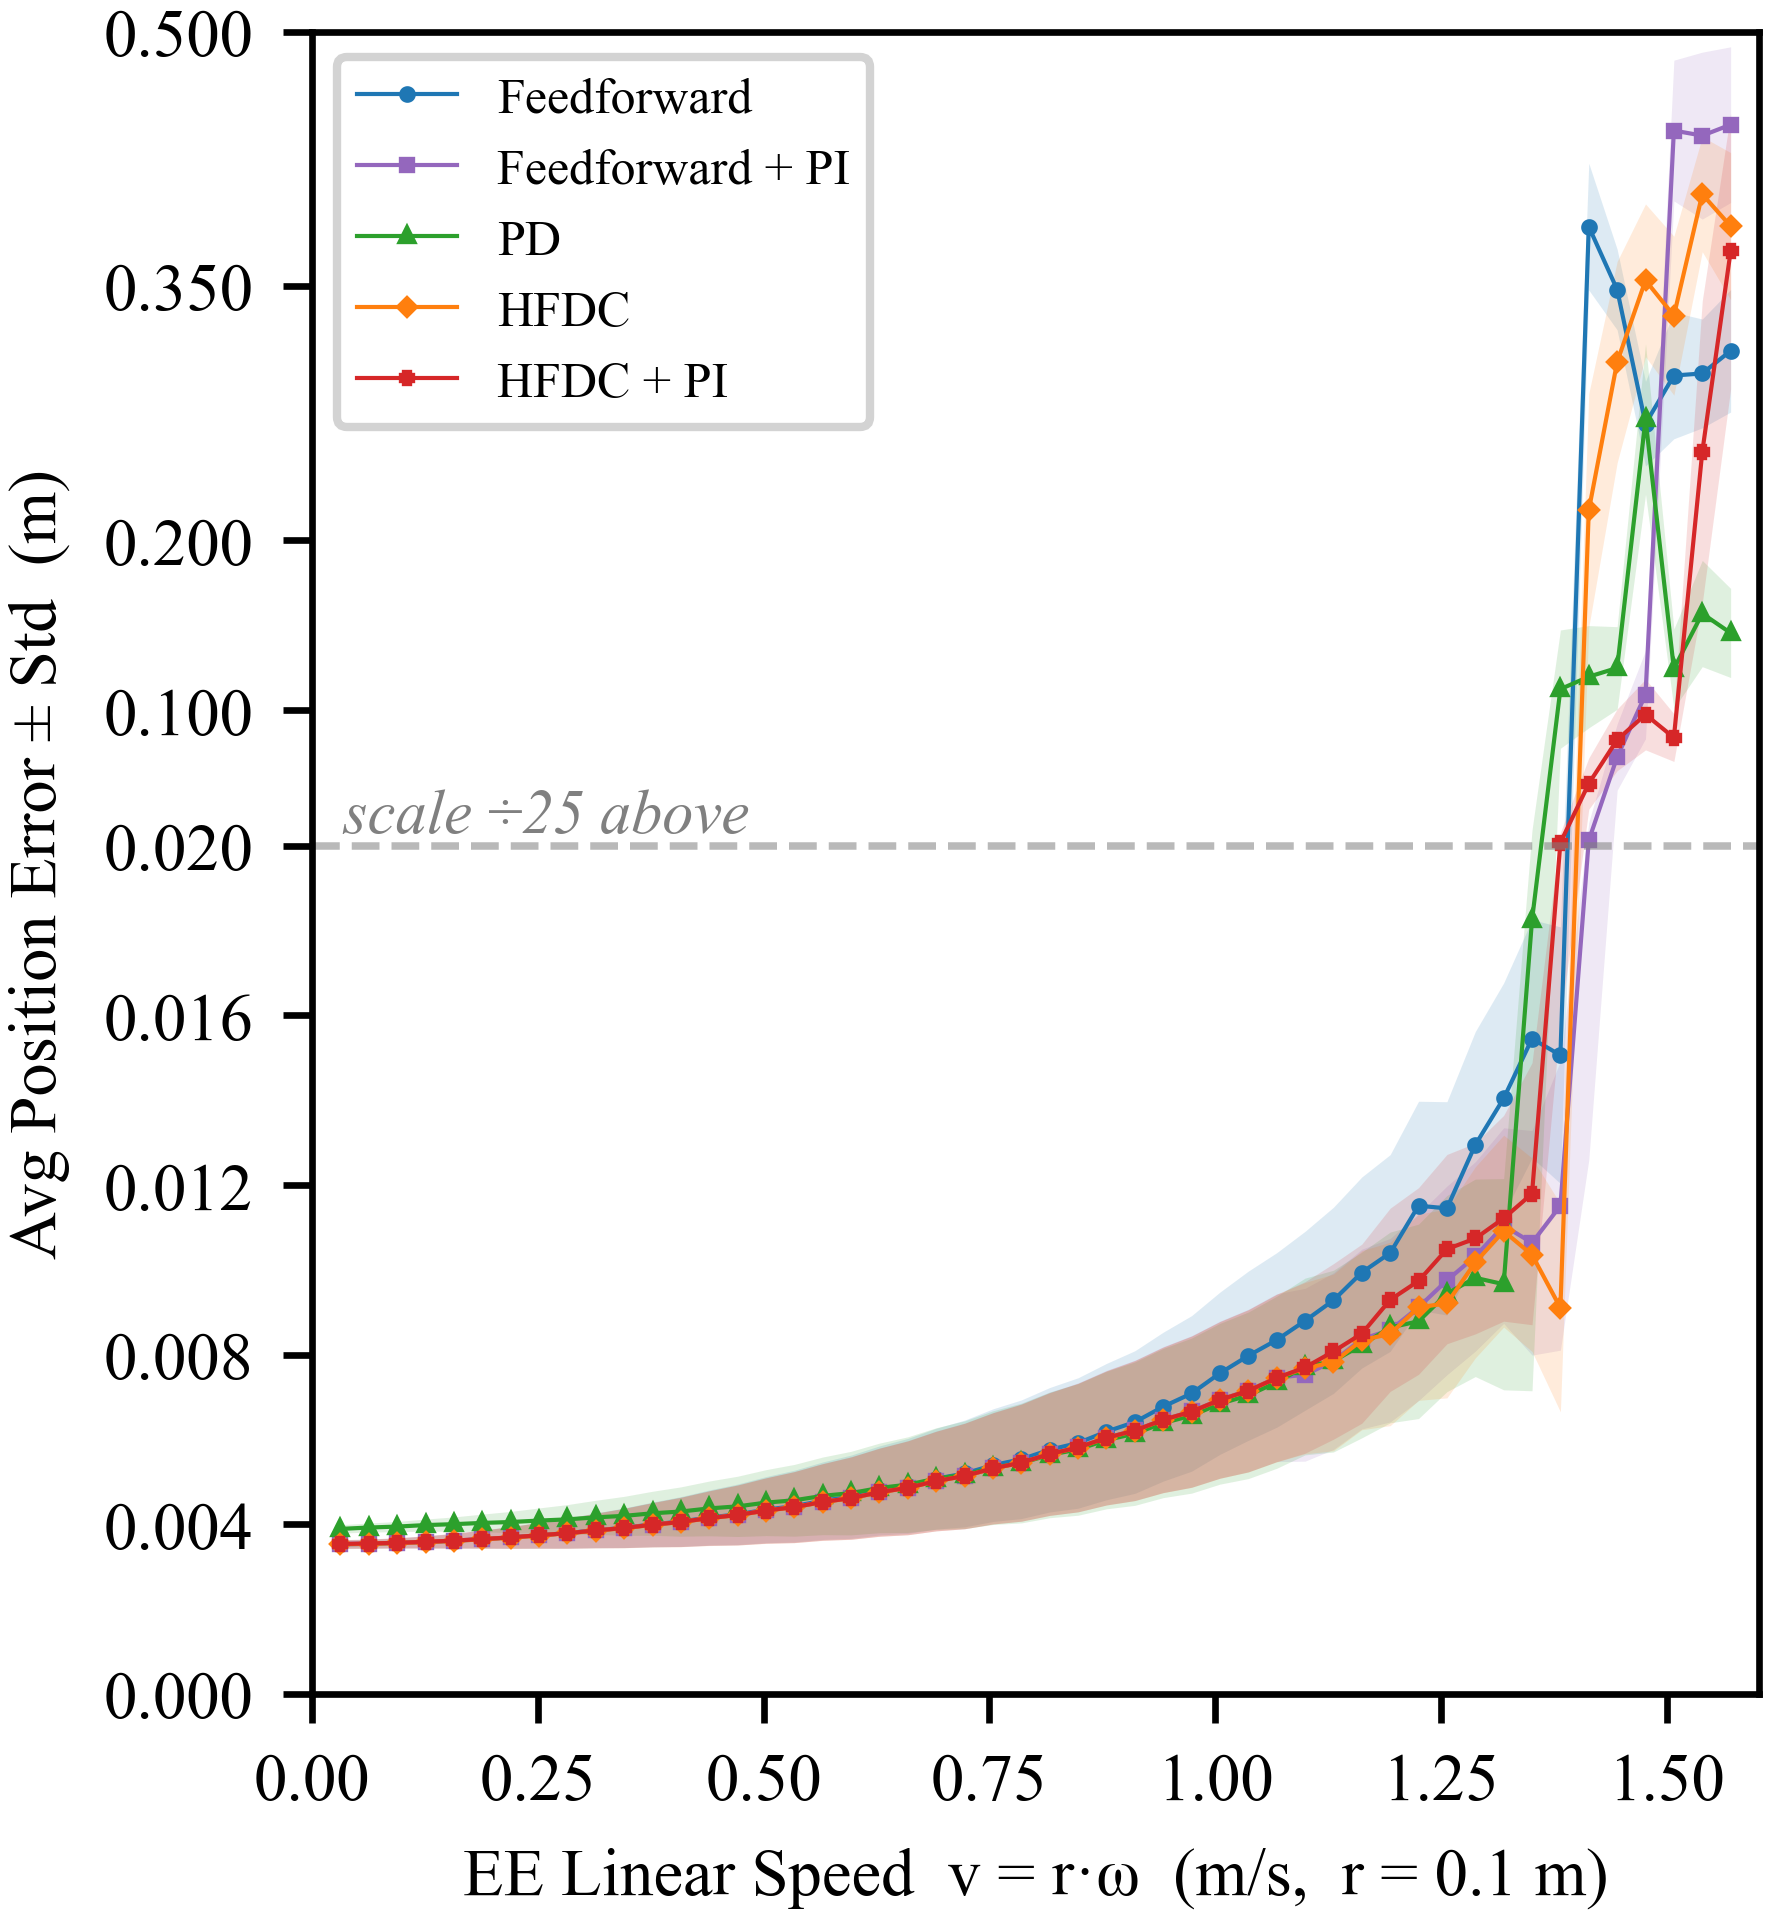
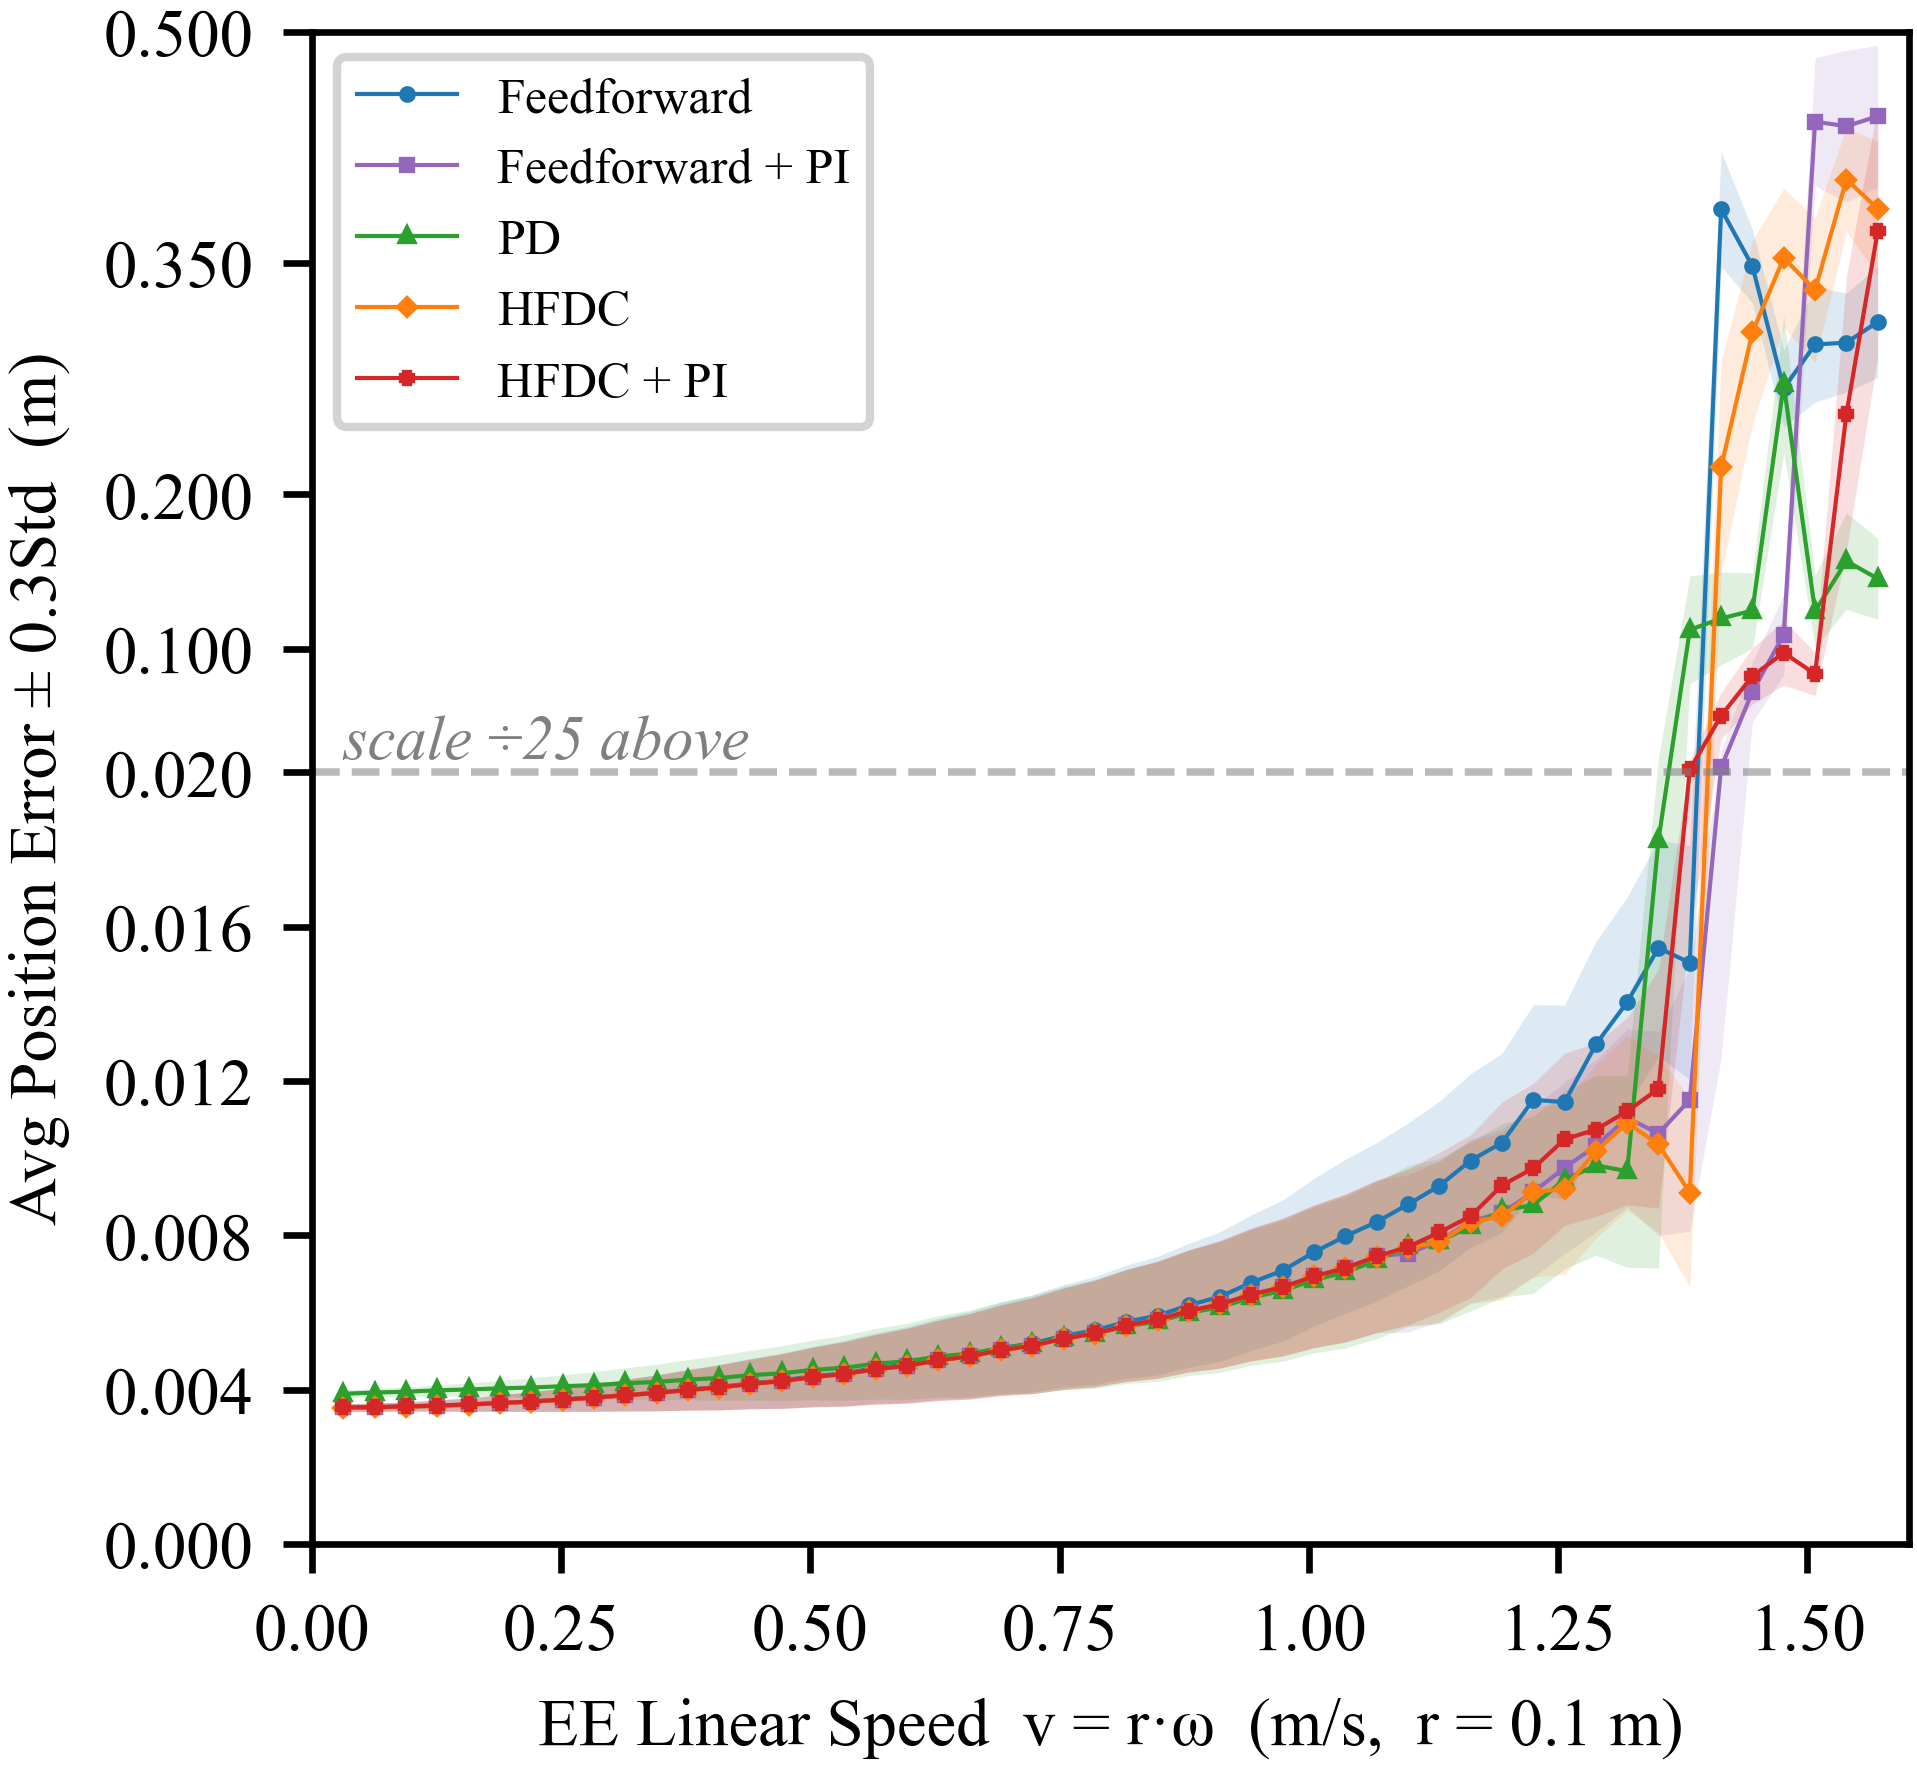
update

Changed region(s): [[0.0, 0.0, 1.0, 0.996]]

diff --git a/angular_speed_sweep/plot_force_error_comparison.py b/angular_speed_sweep/plot_force_error_comparison.py
@@ -142,30 +142,33 @@ def build_metrics(slope_angle):
 # ── Combined (GP-style) plot configuration ───────────────────────────────────
 # Each entry pairs a mean column with its variance column.
 # The shaded band shows mean ± std (√var), clipped to [0, top_max].
-COMBINED_METRICS = [
-    dict(
-        col_mean="avg_force_z_error",
-        col_var="var_force_z_error",
-        ylabel=f"Avg |Force Z Error| ± {STD_RATIO:.1f}Std  (N)",
-        title="Force Z Error  (mean ± std)",
-        out="force_error_combined.png",
-        break_y=3.0,
-        compress=10.0,
-        top_max=20.0,
-        yticks=[0, 0.5, 1.0, 1.5, 2.0, 2.5, 3.0, 5, 8, 11, 14, 17, 20],
-    ),
-    dict(
-        col_mean="avg_position_error",
-        col_var="var_position_error",
-        ylabel=f"Avg Position Error ± {STD_RATIO:.1f}Std  (m)",
-        title="Position Error  (mean ± std)",
-        out="position_error_combined.png",
-        break_y=0.020,
-        compress=25.0,
-        top_max=0.50,
-        yticks=[0, 0.004, 0.008, 0.012, 0.016, 0.020, 0.10, 0.20, 0.35, 0.50],
-    ),
-]
+def build_combined_metrics(slope_angle):
+    """Return combined plot configs with filenames adjusted for slope angle."""
+    suffix = "" if slope_angle == 0.0 else f"_slope{slope_angle:g}"
+    return [
+        dict(
+            col_mean="avg_force_z_error",
+            col_var="var_force_z_error",
+            ylabel=f"Avg |Force Z Error| ± {STD_RATIO:.1f}Std  (N)",
+            title="Force Z Error  (mean ± std)",
+            out=f"force_error_combined{suffix}.png",
+            break_y=3.0,
+            compress=10.0,
+            top_max=20.0,
+            yticks=[0, 0.5, 1.0, 1.5, 2.0, 2.5, 3.0, 5, 8, 11, 14, 17, 20],
+        ),
+        dict(
+            col_mean="avg_position_error",
+            col_var="var_position_error",
+            ylabel=f"Avg Position Error ± {STD_RATIO:.1f}Std  (m)",
+            title="Position Error  (mean ± std)",
+            out=f"position_error_combined{suffix}.png",
+            break_y=0.020,
+            compress=25.0,
+            top_max=0.50,
+            yticks=[0, 0.004, 0.008, 0.012, 0.016, 0.020, 0.10, 0.20, 0.35, 0.50],
+        ),
+    ]
 
 DT = 0.001                          # simulation timestep (ControllerConfig.dt)
 FORCE_SKIP_SAMPLES = int(1.0 / DT)  # skip first 1 s for force metrics (= 1000 samples)
@@ -409,6 +412,7 @@ def main():
 
     methods = build_methods(slope_angle)
     metrics = build_metrics(slope_angle)
+    combined_metrics = build_combined_metrics(slope_angle)
 
     datasets = []
     for name, data_dir, color, marker in methods:
@@ -424,7 +428,7 @@ def main():
     # for cfg in metrics:
     #     make_plot(cfg, datasets, surface_label)
 
-    for cfg in COMBINED_METRICS:
+    for cfg in combined_metrics:
         make_combined_plot(cfg, datasets)
 
 
